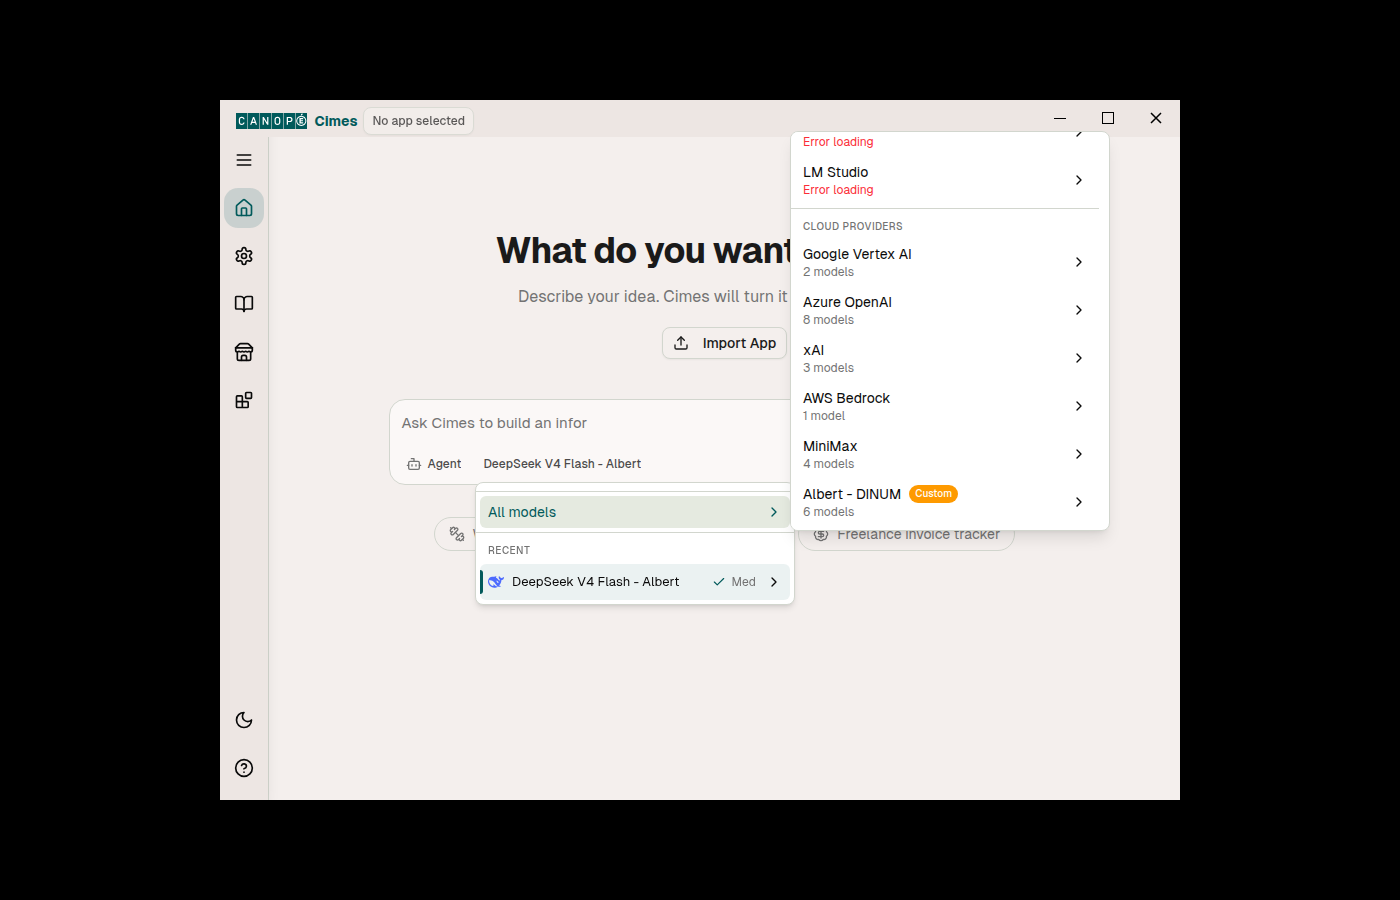
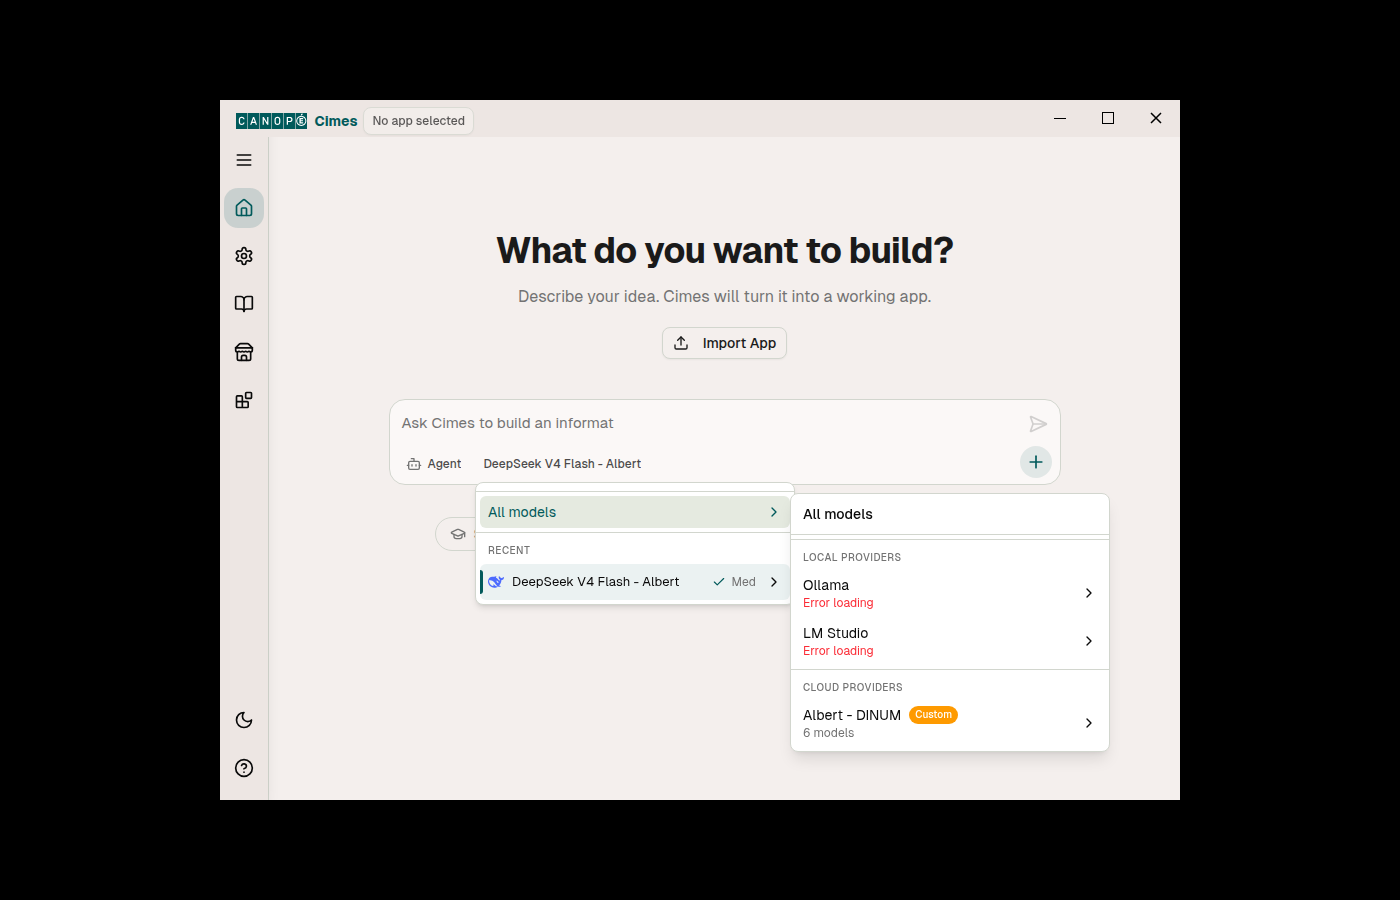
Docs + e2e: Albert models in the picker
Claude-Session: https://claude.ai/code/session_013RKv2N8Ec4GZof8sCPnLbv

diff --git a/ALBERT_FORK_HANDOFF.md b/ALBERT_FORK_HANDOFF.md
@@ -171,3 +171,10 @@ Dans Dyad, la recherche web, la lecture de pages et le shell passent par le serv
 ## Vérifié sur l'application empaquetée (Linux, DeepSeek réel)
 
 Via `testing/cimes-e2e/agent.mjs` contre l'API DeepSeek (variables de test `CIMES_E2E*`, voir README du dossier) : réponse + création d'un fichier ; recherche web + lecture de page + `node -v` dans le shell avec validation ; chargement d'un skill intégré par le modèle ; appel d'un serveur MCP (Mémoire) enregistrant puis relisant des données. `skills.mjs` : liste des skills, bascule, import, catalogue de plugins. **Non vérifié** : Windows (PowerShell, proxy réel, npx), prévisualisation d'une app complète (le pnpm du bac à sable est trop lent), modèle Albert réel (nom `deepseek-v4-flash-0731`).
+
+## Modèles Albert
+
+- Modèles préconfigurés dès le premier lancement (identifiants du guide Albert) : `deepseek-v4-flash-0731` (par défaut), `gpt-oss-120b`, `mistral-medium-2508`, `mistral-small-3-2-24b-instruct-2506`, `ministral-3-8b-instruct-2512`, `qwen3-coder-30b-a3b-instruct` (`src/shared/albert.ts`).
+- À la connexion de la clé et au bouton « Tester », Cimes lit `GET /v1/models` et ajoute tous les modèles de génération de texte que la clé peut utiliser, avec leur fenêtre de contexte (`src/shared/albert_models.ts`). Les modèles qui disparaissent de la liste ne sont pas supprimés.
+- Sélecteur de modèles : seuls Albert et les fournisseurs dont l'utilisateur a saisi une clé sont proposés ; plus de lignes d'abonnement Claude/ChatGPT ni de modèles verrouillés.
+- **Non vérifié** : le comportement des modèles autres que DeepSeek avec les outils de l'agent (appel d'outils, shell, MCP). À tester avec une vraie clé, en commençant par GPT-OSS et Mistral Medium.
